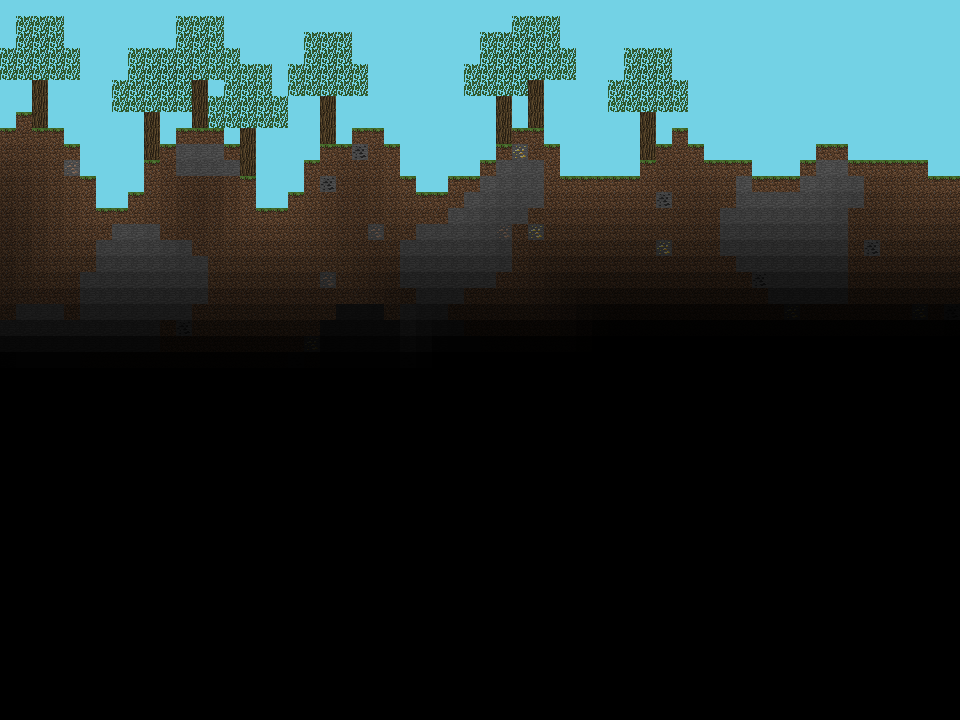
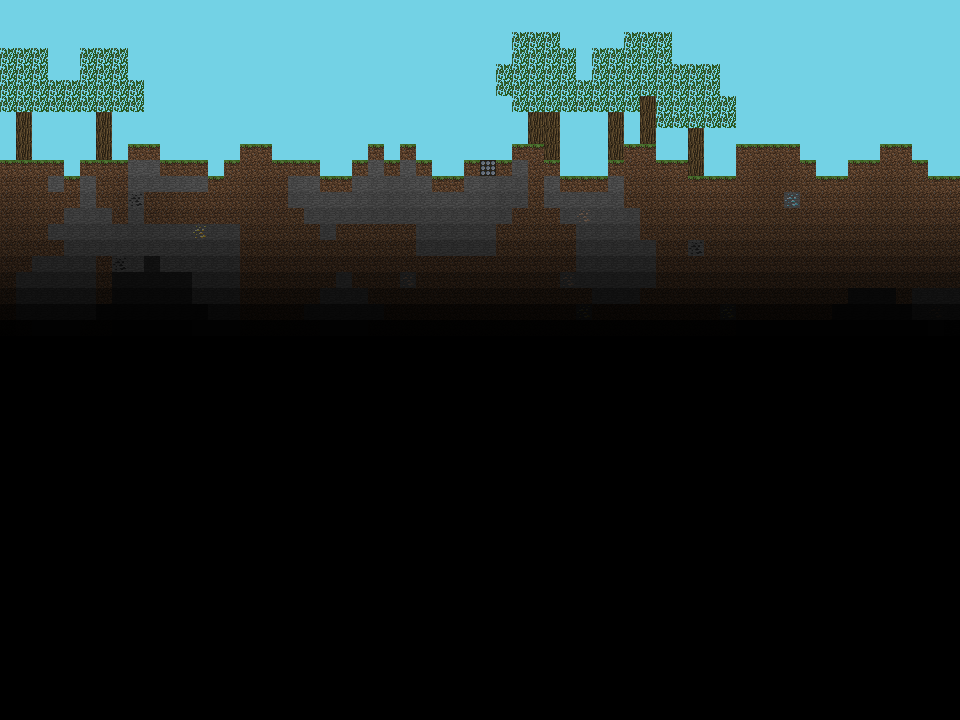
feat: added testing option for rendering full worlds

Changed region(s): [[0.0, 0.0, 0.9688, 0.4583]]

diff --git a/utils/render.py b/utils/render.py
@@ -37,7 +37,7 @@ def query_block_data(world_id, session, start_x, end_x, start_y, end_y, light_di
         .all()
 
 
-async def render_world(world_id, user_id, session, debug=False):
+async def render_world(world_id, user_id, session):
     # we use the player_lower block as the root for camera position & collision checks
     user_root_block = session.query(WorldHasBlocks).join(WorldHasUsers, and_(
         WorldHasUsers.world_id == world_id,
@@ -62,9 +62,23 @@ async def render_world(world_id, user_id, session, debug=False):
     light_map = propagate_light(block_data_light)
     world_map_with_lighting = generate_world_map_with_lighting(light_map, block_data, start_x, start_y, end_x, end_y, selected_block_sprite)
 
-    if debug:
-        print("Stored debug game view in /test_output")
-        world_map_with_lighting.save("test_output/world_map.png")
+    return world_map_with_lighting
+
+def render_world_full(world_id, session):
+
+    start_x, end_x, start_y, end_y = calculate_view_range(world_width / 2, world_height / 2, world_width * 2,
+                                                          world_height * 2)
+    block_data = query_block_data(world_id, session, start_x, end_x, start_y, end_y)
+    block_data_light = query_block_data(world_id, session, start_x, end_x, start_y, end_y, 10)
+
+    # sort blocks by z axis
+    block_data.sort(key=lambda x: x[1].z)
+
+    light_map = propagate_light(block_data_light)
+    world_map_with_lighting = generate_world_map_with_lighting(light_map, block_data, start_x, start_y, end_x, end_y)
+
+    print("Stored debug game view in /test_output")
+    world_map_with_lighting.save("test_output/world_map.png")
 
     return world_map_with_lighting
 
@@ -96,7 +110,7 @@ def get_block_sprite(block_rel, block):
     return 'error'
 
 
-def generate_world_map_with_lighting(light_map, block_data, start_x, start_y, end_x, end_y, selected_block_sprite):
+def generate_world_map_with_lighting(light_map, block_data, start_x, start_y, end_x, end_y, selected_block_sprite=None):
     new_width = (end_x - start_x) * 16
     new_height = (end_y - start_y) * 16
     world_map = Image.new("RGBA", (new_width, new_height), color=sky_color)
@@ -145,7 +159,9 @@ def generate_world_map_with_lighting(light_map, block_data, start_x, start_y, en
         world_map.paste(block_sprite, ((block_rel.x - start_x) * 16, (block_rel.y - start_y) * 16),
                         block_sprite)  # use block image as mask for transparency
 
-    render_overlay(new_height, selected_block_sprite, world_map)
+    # only render block overlay if wanted ( not wanted by full world render for testing )
+    if selected_block_sprite:
+        render_overlay(new_height, selected_block_sprite, world_map)
 
     return world_map
 

diff --git a/render_test.py b/render_test.py
@@ -1,0 +1,21 @@
+from sqlalchemy.orm import sessionmaker
+
+from classes import World
+from database import engine
+from utils.render import render_world_full
+
+Session = sessionmaker(bind=engine)
+session = Session()
+
+# add new world to db
+world = World(name="Test", owner="TestUser")
+session.add(world)
+session.commit()
+
+from commands.generate import generate_world
+
+# start generate process
+generate_world(session=session, world_id=world.id)
+
+# render full world and store it in /test_output
+render_world_full(world_id=world.id, session=session)
